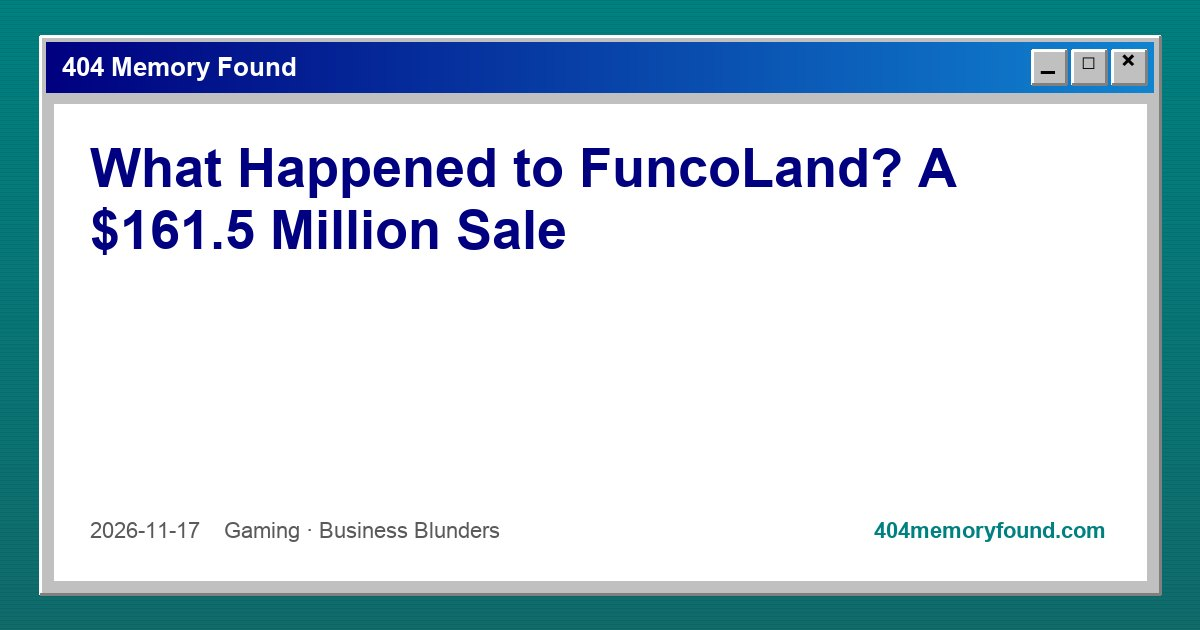
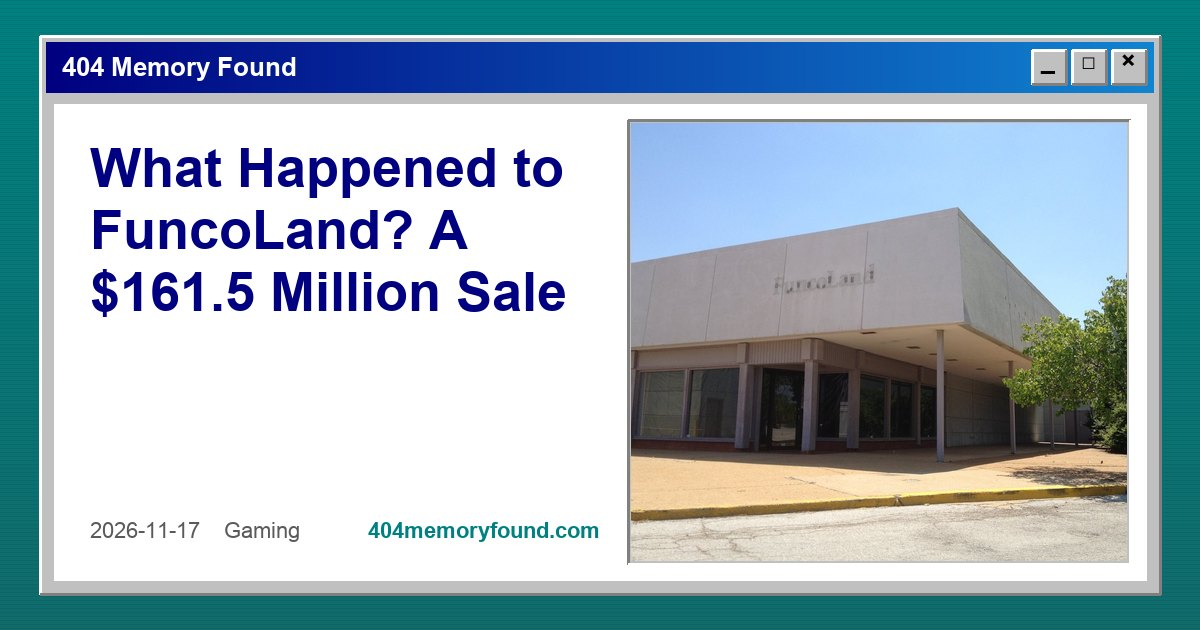
Homepage: welcome prompt in a corner window instead of a full-screen black boot; photos for Lisa Frank and FuncoLand
- The black boot overlay sat in the HTML and lifted only at the load event (ads included), so every
  desktop homepage visit, returning ones too, started on a black screen. It is gone. First-time desktop
  visitors get a small 'C:\ memory_scan.exe' window in the corner that types the same 404 joke and ends
  with the how-to tip and an OK button; it replaces the Welcome modal. Esc, OK or x close it for good.
  Phones, post pages and reduced motion are unchanged (no prompt, or no typing).
- FuncoLand hero: the outline of a removed FuncoLand sign at Northwest Plaza, 2012 (CC BY-SA 2.0).
- Lisa Frank hero: CC0 school supplies photo, captioned as a stand-in (no free photo of a folder exists).

diff --git a/src/index.html b/src/index.html
@@ -98,8 +98,8 @@
                 display: none;
             }
 
-            /* No boot animation or tutorial popup on mobile */
-            .boot-animation,
+            /* No welcome prompt or tutorial popup on mobile */
+            .boot-prompt,
             .tutorial-overlay {
                 display: none !important;
             }
@@ -2041,110 +2041,45 @@
                 border-bottom-color: #ffffff;
             }
 
-            /* Boot Animation */
-            .boot-animation {
+            /* Welcome prompt: a small C:\ window in the corner that types the 404 joke and the how-to tip.
+               It replaced a full-screen black boot (23/11/2026): the stories are readable from the first frame. */
+            .boot-prompt {
                 position: fixed;
-                top: 0;
-                left: 0;
-                width: 100%;
-                height: 100%;
+                right: 112px;
+                bottom: 52px;
+                width: 440px;
+                z-index: 9000;
+                display: none;
+            }
+
+            .boot-prompt.on { display: block; }
+
+            .boot-prompt-term {
                 background: #0c0c0c;
                 color: #33ff33;
+                font: 13px/1.6 'Courier New', monospace;
+                padding: 10px 14px;
+                min-height: 150px;
+            }
+
+            .boot-prompt-term .l { opacity: 0; white-space: nowrap; overflow: hidden; }
+            .boot-prompt-term .l.on { opacity: 1; }
+            .boot-prompt-term .err { color: #ff5c5c; }
+            .boot-prompt-term .big { font-size: 28px; font-weight: bold; color: #ff5c5c; opacity: 0; }
+            .boot-prompt-term .big.on { opacity: 1; }
+
+            .boot-prompt-foot {
                 display: flex;
-                flex-direction: column;
                 align-items: center;
-                justify-content: center;
-                z-index: 10000;
-                font-family: 'Courier New', monospace;
-                font-size: 14px;
-                line-height: 1.6;
-                text-align: left;
-                transition: opacity 0.4s ease;
+                justify-content: space-between;
+                gap: 12px;
+                padding: 10px 12px;
+                font: 13px/1.4 "MS Sans Serif", Tahoma, Arial, sans-serif;
+                background: #c0c0c0;
+                visibility: hidden;
             }
 
-            .boot-animation.hidden {
-                opacity: 0;
-                pointer-events: none;
-            }
-
-            .boot-terminal {
-                max-width: 520px;
-                width: 90%;
-            }
-
-            .boot-line {
-                opacity: 0;
-                white-space: nowrap;
-                overflow: hidden;
-            }
-
-            .boot-line.visible {
-                opacity: 1;
-            }
-
-            .boot-404 {
-                font-size: 42px;
-                font-weight: bold;
-                color: #ff4444;
-                text-align: center;
-                margin: 8px 0 4px 0;
-                opacity: 0;
-                text-shadow: 0 0 10px rgba(255, 68, 68, 0.5);
-            }
-
-            .boot-404.visible {
-                opacity: 1;
-            }
-
-            .boot-found {
-                font-size: 18px;
-                color: #33ff33;
-                text-align: center;
-                margin-bottom: 12px;
-                opacity: 0;
-                letter-spacing: 6px;
-                text-transform: uppercase;
-            }
-
-            .boot-found.visible {
-                opacity: 1;
-            }
-
-            .boot-progress-bar {
-                width: 100%;
-                height: 12px;
-                border: 1px solid #33ff33;
-                margin-top: 10px;
-                opacity: 0;
-            }
-
-            .boot-progress-bar.visible {
-                opacity: 1;
-            }
-
-            .boot-progress-fill {
-                height: 100%;
-                width: 0%;
-                background: #33ff33;
-                transition: width 1.2s ease-in-out;
-            }
-
-            .boot-enter {
-                text-align: center;
-                color: #888;
-                font-size: 11px;
-                margin-top: 12px;
-                opacity: 0;
-                animation: blink-enter 1s step-end infinite;
-            }
-
-            .boot-enter.visible {
-                opacity: 1;
-            }
-
-            @keyframes blink-enter {
-                50% { opacity: 0.3; }
-            }
+            .boot-prompt-foot.on { visibility: visible; }
 
             /* First-time visitor tutorial */
             .tutorial-overlay {
@@ -2288,24 +2223,30 @@
 
         @media (prefers-reduced-motion: reduce) {
             html, body, .window-content, .mobile-content { scroll-behavior: auto !important; }
-            .boot-animation { display: none !important; }
-            .boot-enter, .tutorial-overlay { animation: none !important; }
+            .tutorial-overlay { animation: none !important; }
         }
     </style>
 </head>
 <body>
-    <!-- Boot Animation (Desktop only) -->
-    <div class="boot-animation" id="boot-animation">
-        <div class="boot-terminal">
-            <div class="boot-line" id="boot-l1">C:\> searching for lost memories...</div>
-            <div class="boot-line" id="boot-l2">scanning decade: 1990s ██████ OK</div>
-            <div class="boot-line" id="boot-l3">scanning decade: 2000s ██████ OK</div>
-            <div class="boot-line" id="boot-l4" style="color:#ff4444;">ERR 404: present_day not found</div>
-            <div class="boot-line" id="boot-l5">redirecting to nostalgia zone...</div>
-            <div class="boot-404" id="boot-404">404</div>
-            <div class="boot-found" id="boot-found">memory found</div>
-            <div class="boot-progress-bar" id="boot-bar"><div class="boot-progress-fill" id="boot-fill"></div></div>
-            <div class="boot-enter" id="boot-enter">entering the nostalgia zone</div>
+    <!-- Welcome prompt (desktop, first visit only): types the 404 joke in a small window, never covers the stories -->
+    <div class="window boot-prompt" id="boot-prompt" role="dialog" aria-label="Welcome to 404 Memory Found" data-nosnippet>
+        <div class="title-bar">
+            <div class="title-bar-title">C:\ memory_scan.exe</div>
+            <div class="title-bar-controls">
+                <button class="window-button" onclick="closeBootPrompt()" aria-label="Close welcome window"><span class="btn-close">×</span></button>
+            </div>
+        </div>
+        <div class="boot-prompt-term" id="boot-prompt-term">
+            <div class="l">C:\&gt; searching for lost memories...</div>
+            <div class="l">scanning decade: 1990s ██████ OK</div>
+            <div class="l">scanning decade: 2000s ██████ OK</div>
+            <div class="l err">ERR 404: present_day not found</div>
+            <div class="l">redirecting to nostalgia zone...</div>
+            <div class="big">404 memory found</div>
+        </div>
+        <div class="boot-prompt-foot" id="boot-prompt-foot">
+            <span>Double-click any icon on the desktop to open it.</span>
+            <button class="tutorial-btn" onclick="closeBootPrompt()">OK</button>
         </div>
     </div>
 
@@ -3656,80 +3597,44 @@
             document.getElementById('cookie-banner').classList.remove('show');
         }
 
-        // The boot animation is the site saying hello, not a toll: it plays once per browser, about
-        // twice as fast as before, and returning visitors land straight on the desktop.
-        window.BOOT_SEEN = (function () {
-            try {
-                var seen = !!localStorage.getItem('404mf_booted');
-                localStorage.setItem('404mf_booted', '1');
-                return seen;
-            } catch (e) { return false; }
-        })();
+        // First visit on the desktop homepage: a small C:\ window in the corner types the 404 joke and ends
+        // with the how-to tip. The page under it is usable from the first frame (the old full-screen black boot
+        // waited for the load event, ads included). Closing it counts as having seen the welcome.
         window.REDUCED_MOTION = !!(window.matchMedia && matchMedia('(prefers-reduced-motion: reduce)').matches);
-        window.BOOT_MS = (window.BOOT_SEEN || window.REDUCED_MOTION) ? 0 : 1900;
+        window.BOOT_MS = 0;
+        function closeBootPrompt() {
+            const el = document.getElementById('boot-prompt');
+            if (el) el.classList.remove('on');
+            try { localStorage.setItem('404mf_visited', '1'); localStorage.setItem('404mf_booted', '1'); } catch (e) {}
+        }
+        function showBootPrompt() {
+            let seen = true;
+            try { seen = !!(localStorage.getItem('404mf_visited') || localStorage.getItem('404mf_booted')); } catch (e) {}
+            const el = document.getElementById('boot-prompt');
+            if (seen || !el || (typeof isPostPage !== 'undefined' && isPostPage) || window.innerWidth <= 768) return;
+            el.classList.add('on');
+            const parts = el.querySelectorAll('.boot-prompt-term .l, .boot-prompt-term .big');
+            const foot = document.getElementById('boot-prompt-foot');
+            if (window.REDUCED_MOTION) {
+                parts.forEach(p => p.classList.add('on'));
+                foot.classList.add('on');
+                return;
+            }
+            let t = 150;
+            parts.forEach(p => { setTimeout(() => p.classList.add('on'), t); t += 260; });
+            setTimeout(() => foot.classList.add('on'), t + 150);
+        }
+        document.addEventListener('keydown', (e) => {
+            const el = document.getElementById('boot-prompt');
+            if (e.key === 'Escape' && el && el.classList.contains('on')) closeBootPrompt();
+        });
+
+        window.addEventListener('DOMContentLoaded', () => { setTimeout(showBootPrompt, 400); });
 
         // Initialize on load
         window.addEventListener('load', () => {
             observeThumbs();
             loadPosts();
-            // Boot animation: skip on post pages, play on homepage
-            const bootEl = document.getElementById('boot-animation');
-            if (bootEl) {
-                if (typeof isPostPage !== 'undefined' && isPostPage) {
-                    bootEl.classList.add('hidden');
-                    setTimeout(() => { bootEl.style.display = 'none'; }, 50);
-                } else if (window.BOOT_SEEN) {
-                    bootEl.classList.add('hidden');
-                    setTimeout(() => { bootEl.style.display = 'none'; showTutorialIfFirstVisit(); }, 50);
-                } else {
-                    // Sequenced terminal boot animation
-                    const lines = ['boot-l1','boot-l2','boot-l3','boot-l4','boot-l5'];
-                    let delay = 100;
-                    lines.forEach((id, i) => {
-                        setTimeout(() => {
-                            const el = document.getElementById(id);
-                            if (el) el.classList.add('visible');
-                        }, delay);
-                        delay += 170;
-                    });
-                    // Show 404 title
-                    setTimeout(() => {
-                        const el = document.getElementById('boot-404');
-                        if (el) el.classList.add('visible');
-                    }, delay);
-                    delay += 150;
-                    // Show "memory found"
-                    setTimeout(() => {
-                        const el = document.getElementById('boot-found');
-                        if (el) el.classList.add('visible');
-                    }, delay);
-                    delay += 100;
-                    // Show progress bar and fill it
-                    setTimeout(() => {
-                        const bar = document.getElementById('boot-bar');
-                        if (bar) bar.classList.add('visible');
-                        setTimeout(() => {
-                            const fill = document.getElementById('boot-fill');
-                            if (fill) fill.style.width = '100%';
-                        }, 50);
-                    }, delay);
-                    delay += 150;
-                    // Show enter text
-                    setTimeout(() => {
-                        const el = document.getElementById('boot-enter');
-                        if (el) el.classList.add('visible');
-                    }, delay);
-                    // Fade out and hide, then show tutorial if first visit
-                    delay += 450;
-                    setTimeout(() => {
-                        bootEl.classList.add('hidden');
-                        setTimeout(() => {
-                            bootEl.style.display = 'none';
-                            showTutorialIfFirstVisit();
-                        }, 500);
-                    }, delay);
-                }
-            }
         });
 
         // First-time visitor tutorial
